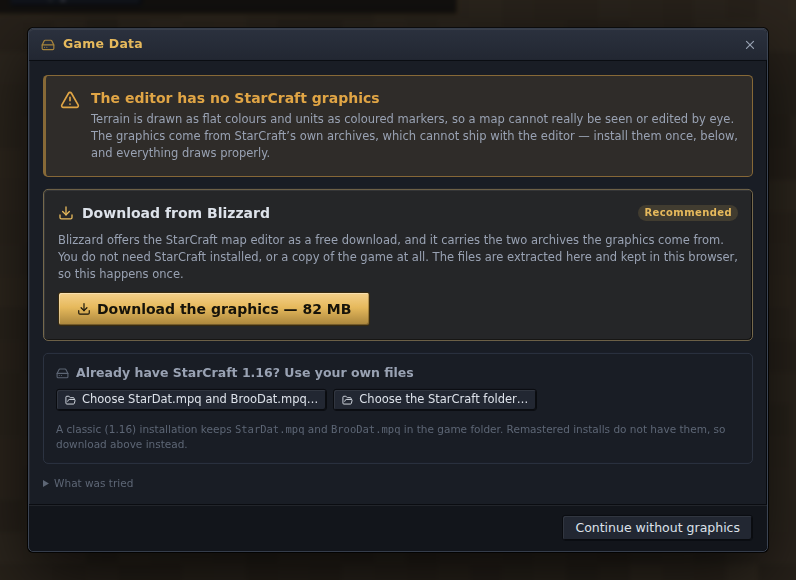
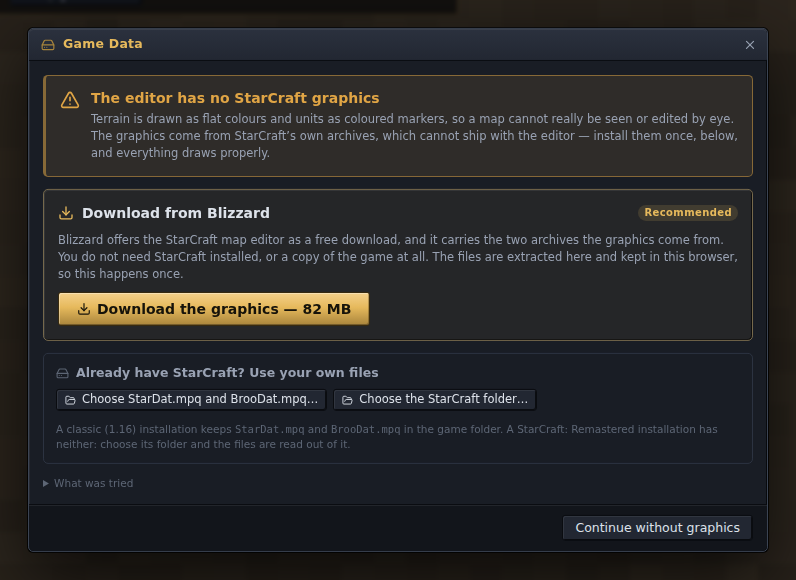
Docs: classic or Remastered graphics, with pictures
The guide has a section of its own for switching between the two, the
install page says how to add a Remastered installation in either case, and
the README lists it first among what the editor does. Four new pictures
(the two looks side by side, the shore, the dialog with both data sets,
the water and lava settings) and the first-run dialog shot again, whose
text had changed.

guide-screenshots.mjs has a scene for them. It needs a real installation,
named with --remastered or SCM_REMASTERED_DIR, and installs it through the
dialog as a user would; without one the scene is skipped.

The preference reads Animate water and lava: it has governed Remastered's
since they moved, and the palette cycling it named is only the classic kind.

Changed region(s): [[0.0905, 0.7448, 0.4221, 0.7759], [0.6332, 0.7138, 0.9045, 0.7448], [0.3015, 0.6207, 0.5126, 0.6517]]

diff --git a/src/components/dialogs/PreferencesDialog.tsx b/src/components/dialogs/PreferencesDialog.tsx
@@ -533,7 +533,7 @@ function ViewPage({ w, patch }: { w: Working; patch: (p: Partial<Preferences>) =
         <Hint>{t("Keeps the tile under the pointer in place when the wheel zooms; the menu and keyboard zoom on the centre.")}</Hint>
       </Section>
       <Section title={t("Animation")}>
-        <Check label={t("Animate water (palette cycling)")} checked={p.animateWater} onChange={(e) => patch({ animateWater: e.target.checked })} />
+        <Check label={t("Animate water and lava")} checked={p.animateWater} onChange={(e) => patch({ animateWater: e.target.checked })} />
         <Check label={t("Animate units (idle animations)")} checked={p.animateUnits} onChange={(e) => patch({ animateUnits: e.target.checked })} />
         <div className="form wide" style={{ marginTop: 4 }}>
           <SpeedField label={t("Water speed")} value={p.animateWaterSpeed} onChange={(v) => patch({ animateWaterSpeed: v })} />

diff --git a/docs/guide.md b/docs/guide.md
@@ -88,13 +88,38 @@ edge you push and stops when you let go. Ctrl++ and Ctrl+− zoom, as do the too
 Ctrl+Shift+0 fits the whole map in the window. Ctrl+G shows the grid, and View ▸ Grid Settings (the
 Editing page of Preferences) sets its spacing, colour and style. The panels can be hidden from View ▸ Panels and their widths dragged.
 
-View ▸ Remastered Graphics draws the terrain, units and sprites with StarCraft:
-Remastered's own pictures, at twice the detail of the classic ones. It needs game data
-taken from a Remastered installation (Help ▸ Game Data…; see
-[game-data.md](game-data.md#remastered-graphics)), and changes only how the map looks:
-the map itself, the brushes and everything worked out from the tiles are the same. Water
-ripples and lava shimmers as they do in Remastered while View ▸ Animate Water is on. It is turned on for you when the graphics are installed from a
-Remastered folder; untick it for the classic look.
+### Classic or Remastered graphics
+
+![The same view drawn with the classic graphics on the left and Remastered's on the right](images/remastered-compare.webp)
+
+The editor can draw a map with the classic graphics or with StarCraft: Remastered's.
+**View ▸ Remastered Graphics** switches between them at any time, for the terrain, the
+units and the sprites together. Only the look changes: the map, the brushes and
+everything worked out from the tiles are the same either way, and the map you save is the
+same file.
+
+Remastered's pictures have twice the detail, which shows most when you zoom in: at 200%
+they are drawn pixel for pixel, where the classic ones are each pixel doubled.
+
+The Remastered graphics come from a Remastered installation, so the option needs one:
+
+- With no graphics installed yet, choose **Choose the StarCraft folder…** in the dialog
+  the editor opens on first use, and pick the folder Remastered is installed in.
+- With graphics already installed, open **Help ▸ Game Data…** and choose
+  **Add StarCraft: Remastered…** under *Data sets*.
+
+Either way the option is turned on for you when the install finishes. The files are read
+from the folder and a copy of what the editor needs is kept (about 375 MB), so this
+happens once. [Installing](installing.md#the-graphics) has the steps in full.
+
+![Big Game Hunters' shore drawn with the Remastered graphics](images/remastered-water.webp)
+
+With **View ▸ Animate Water** on, water ripples and lava shimmers as they do in
+Remastered. **Preferences ▸ View ▸ Graphics ▸ Water and lava** changes how strongly and
+how fast, and the tick above it sets whether the editor starts with the Remastered
+graphics on. A few things differ from the game: units are drawn without its lighting, the
+minimap keeps the classic colours, and an exported map image has still water.
+[game-data.md](game-data.md#remastered-graphics) explains how it is drawn.
 
 Every layer has its own selection and its own palette. Undo is Ctrl+Z, two hundred steps
 deep and shared across all the layers, so a terrain stroke and the units it stranded

diff --git a/docs/installing.md b/docs/installing.md
@@ -137,6 +137,30 @@ back later, to remove the copy or to install a second *data set* beside it: a mo
 files, or a StarCraft: Remastered installation's (see
 [game-data.md](game-data.md#data-sets)).
 
+### Remastered graphics
+
+If you own StarCraft: Remastered, the editor can draw maps with its graphics as well as
+the classic ones, and you can switch between the two whenever you like.
+
+- **With no graphics yet:** in the dialog above, choose **Choose the StarCraft folder…**
+  and pick the folder Remastered is installed in (on Windows, usually
+  `C:\Program Files (x86)\StarCraft`).
+- **With graphics already installed:** open **Help ▸ Game Data…** and choose
+  **Add StarCraft: Remastered…** under *Data sets*. It is installed beside the copy you
+  have, and the list switches between them.
+
+![The Game Data dialog after adding a Remastered installation, with both data sets listed](images/game-data-remastered.webp)
+
+The browser asks whether to upload the folder's files. Nothing is uploaded anywhere: the
+editor reads what it needs from the files where they are. It takes about half a minute
+and keeps about 375 MB. The desktop app looks for a Remastered installation itself and
+needs none of this when it finds one.
+
+When the install finishes, **View ▸ Remastered Graphics** is on. Untick it for the classic
+look and tick it again to go back; the guide's
+[Classic or Remastered graphics](guide.md#classic-or-remastered-graphics) shows the
+difference.
+
 Without any graphics the editor still runs: terrain is drawn in flat colours and units as
 coloured markers, and everything else works.
 

diff --git a/docs/game-data.md b/docs/game-data.md
@@ -289,8 +289,10 @@ and the far zoom levels, which draw average tile colours, do not animate.
 
 ### Remastered graphics
 
+![The same view drawn with the classic graphics on the left and Remastered's on the right](images/remastered-compare.webp)
+
 **View ▸ Remastered Graphics** draws the terrain, units and sprites from StarCraft:
-Remastered's own pictures in place of the classic ones. It needs game data that came
+Remastered's own pictures in place of the classic ones, and switches back at any time. It needs game data that came
 from a [Remastered installation](#starcraft-remastered); with a 1.16 copy the option
 says so and the classic graphics stay. Installing from a Remastered installation turns
 the option on, since those pictures are most of what was just copied; from then on it is
@@ -333,7 +335,10 @@ How far the picture bends and how the ripples drift are the game's own figures. 
 the ripples lie on the map and how fast they change are not in its files, so those were
 set by eye and can be changed: Preferences ▸ View ▸ Graphics ▸ *Water and lava* has the
 bend, the glint, the two ripple sizes, their rate and the lava's heat, and the water
-speed on the same page applies to both. This needs WebGL, which every current browser
+speed on the same page applies to both.
+
+![Preferences, the View page, with the Water and lava settings open](images/preferences-graphics.webp)
+ This needs WebGL, which every current browser
 has; without it the water and lava are drawn still, and nothing else changes. An
 exported map image is always still.
 

diff --git a/README.md b/README.md
@@ -24,6 +24,10 @@ does some things other editors do not. Each links to where it is explained; the 
 *Browse Plugins* are one click away under Plugins ▸ Browse Plugins… rather than installed
 from the start.
 
+- **Classic or Remastered graphics.** Point the editor at a StarCraft: Remastered
+  installation and it draws the map with Remastered's terrain, units and moving water,
+  at twice the detail. View ▸ Remastered Graphics switches between that and the classic
+  look at any time. See [Classic or Remastered graphics](docs/guide.md#classic-or-remastered-graphics).
 - **Several people on one map.** Share the map you have open, and anyone you send the
   link to edits it with you from their own editor, seeing the others' changes and
   pointers as they happen. See [Editing a map together](docs/guide.md#editing-a-map-together).
